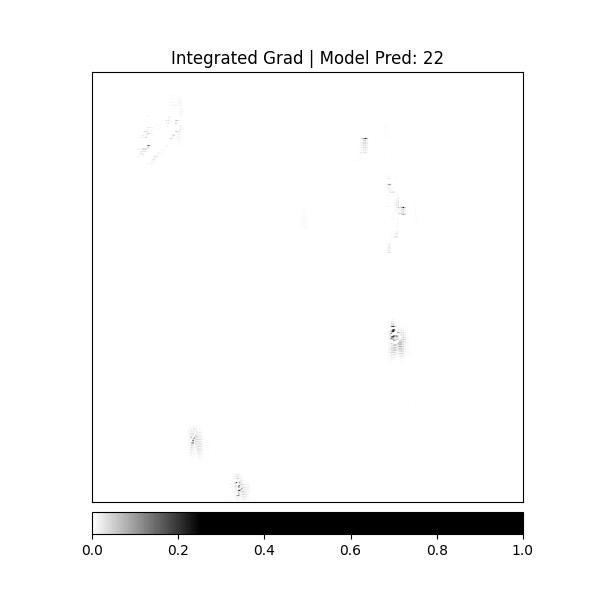
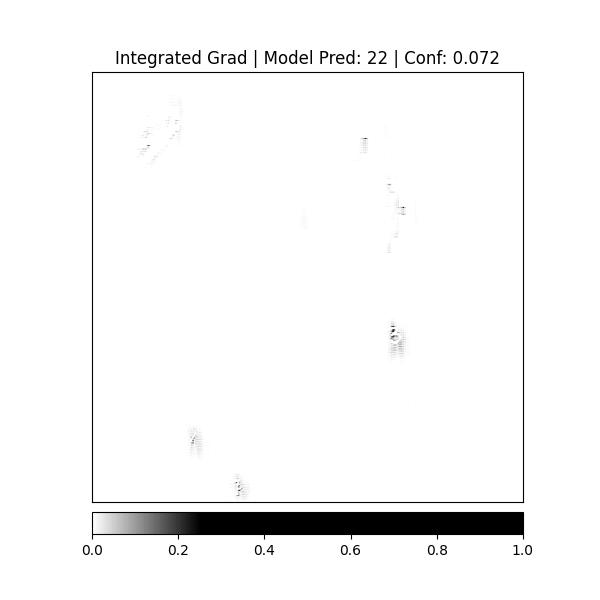
Improve Label in visualization

Changed region(s): [[0.18, 0.06, 0.84, 0.12]]

diff --git a/explain/visualize.py b/explain/visualize.py
@@ -2,6 +2,7 @@
 
 import torch
 import torch.nn as nn
+import torch.nn.functional as F
 from torchvision import transforms
 
 from captum.attr import IntegratedGradients
@@ -59,7 +60,9 @@ def visualize_integrated_gradients(image_path: str, _transforms: transforms.Comp
 
     out = model(img.unsqueeze(0))
     pred = torch.argmax(out.squeeze(0)).item()
-    print(f'Model predicted: {pred}')
+    conf = torch.max(F.softmax(out.squeeze(0))).item()
+    # print(F.softmax(out.squeeze(0)))
+    print(f'Model predicted: {pred} with conf {conf:.3f}')
 
     integrated_grads = IntegratedGradients(model)
 
@@ -81,7 +84,7 @@ def visualize_integrated_gradients(image_path: str, _transforms: transforms.Comp
 
     dir_name = get_exp_dir()
 
-    result[1].set_title(f'Integrated Grad | Model Pred: {pred}')
+    result[1].set_title(f'Integrated Grad | Model Pred: {pred} | Conf: {conf:.3f}')
 
     result[0].savefig(Path(f'{dir_name}/result1.jpg'))
     result[1].figure.savefig(Path(f'{dir_name}/result2.jpg'))
